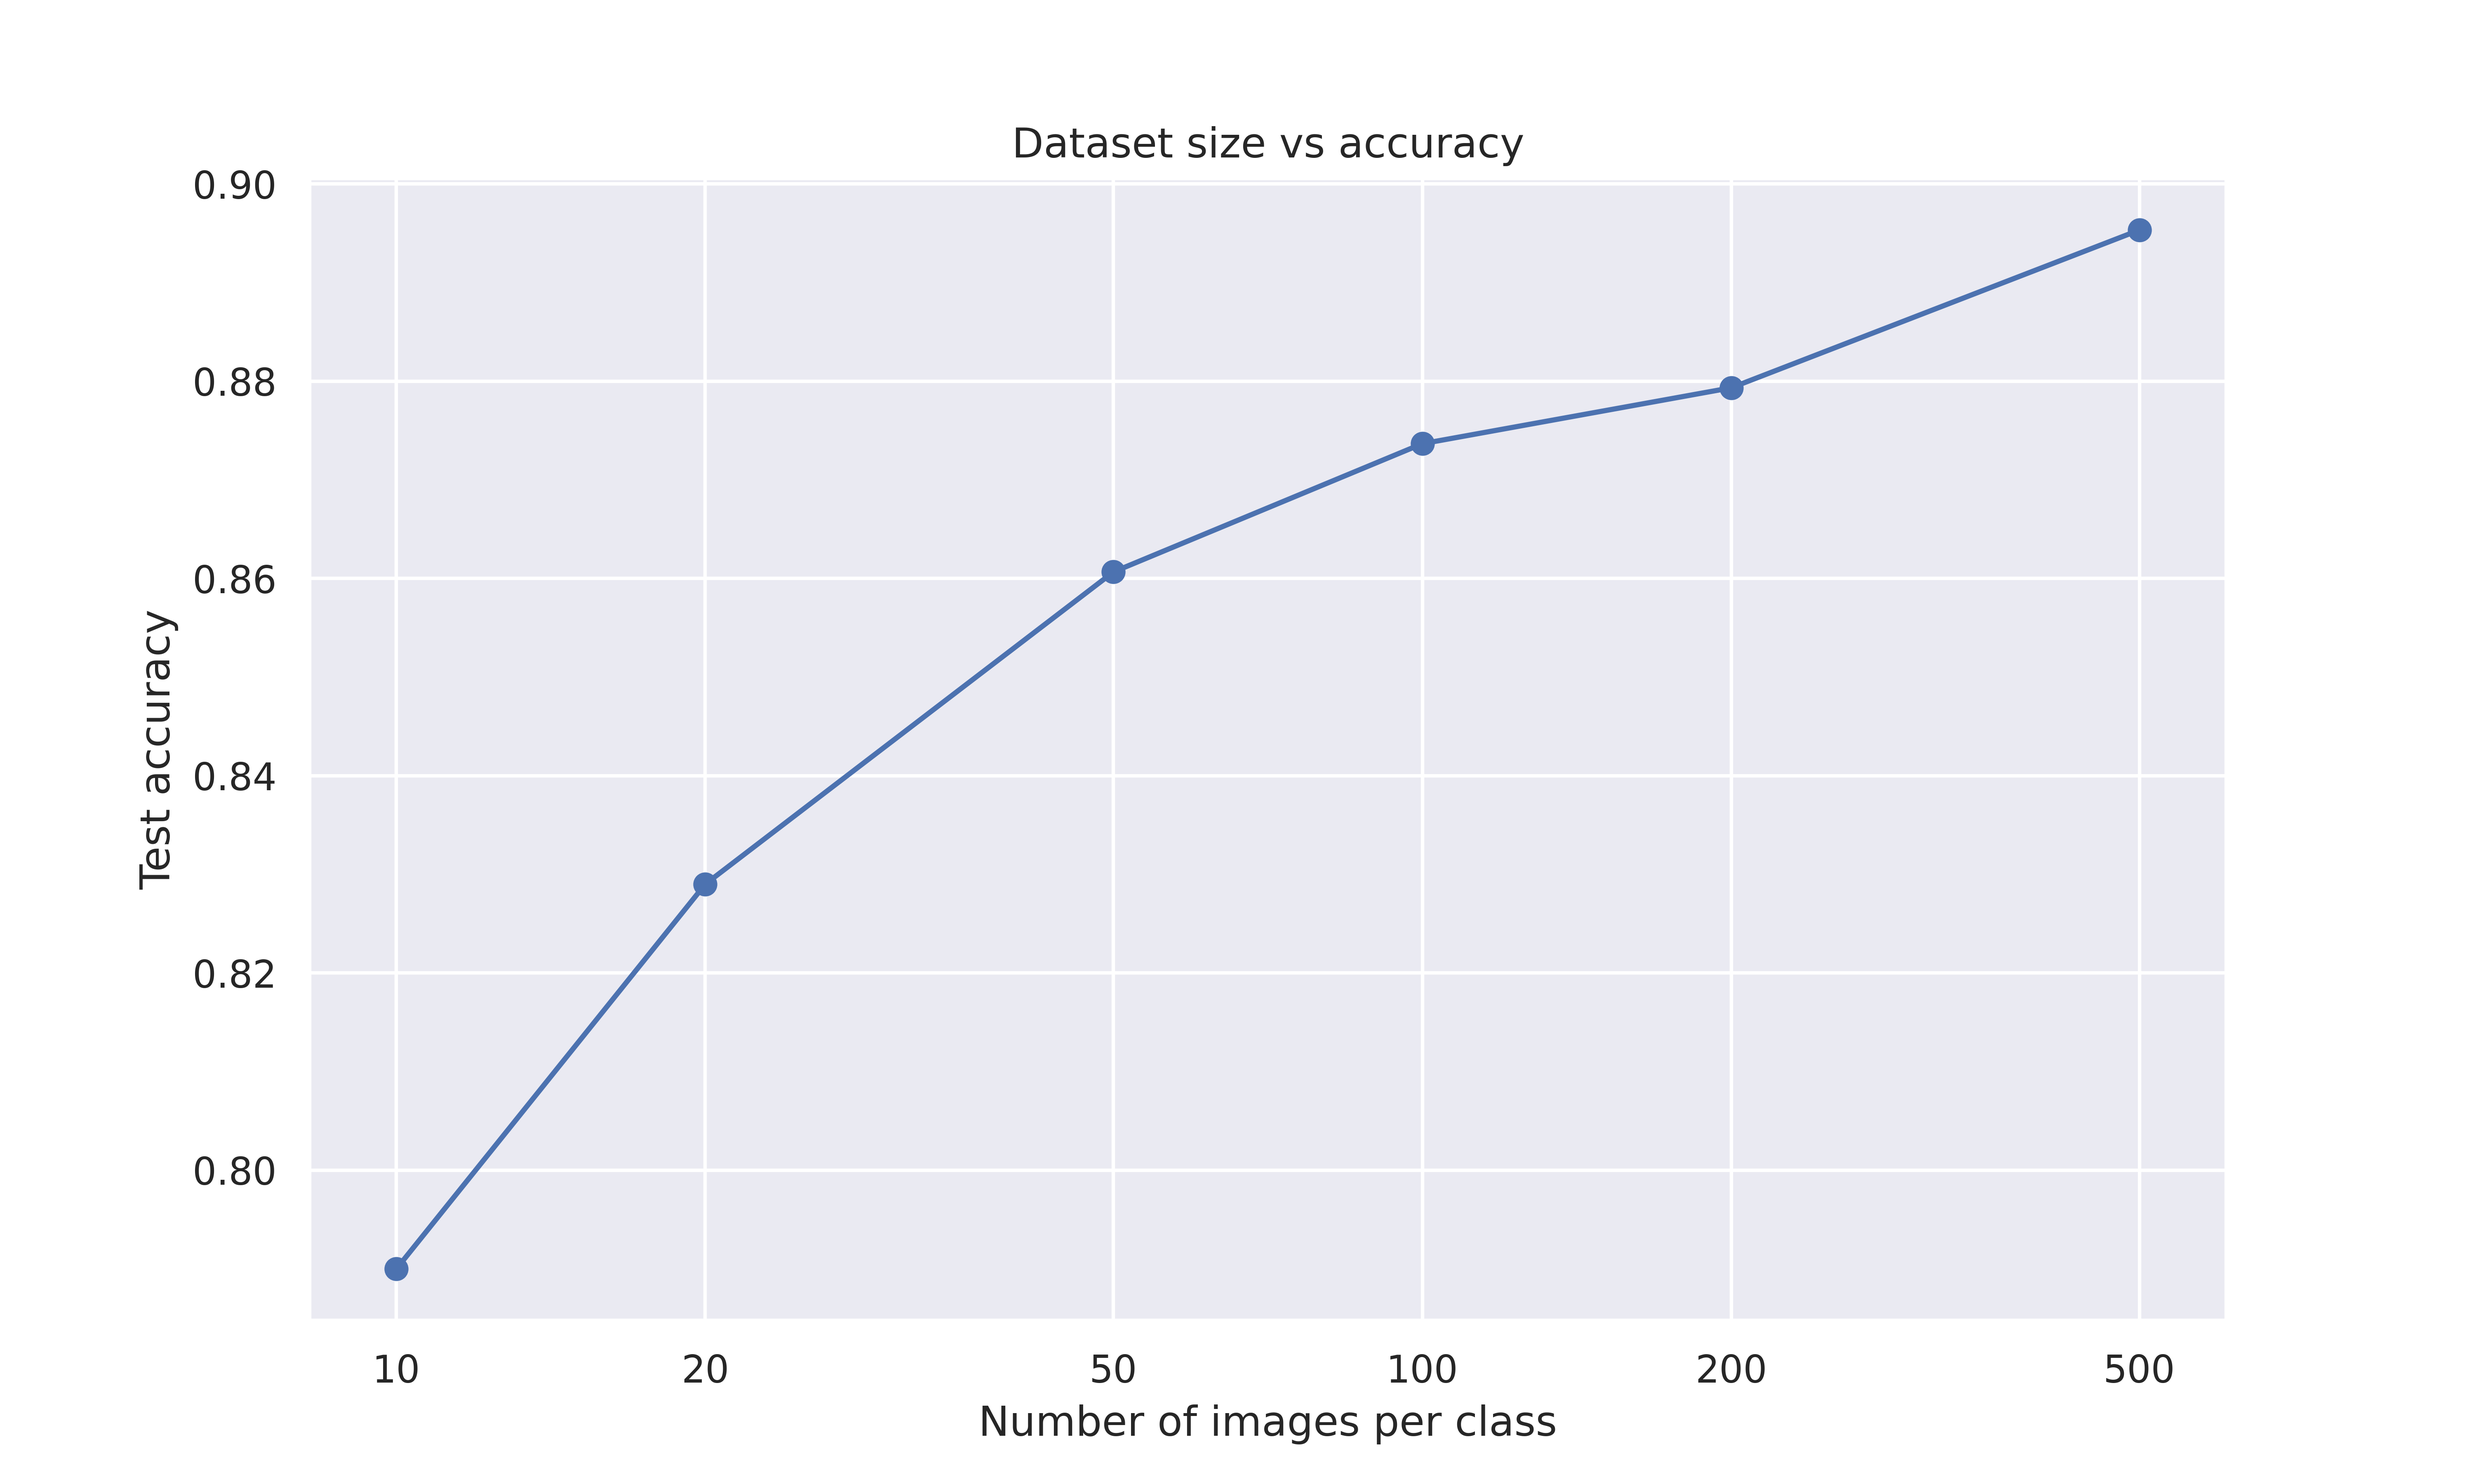
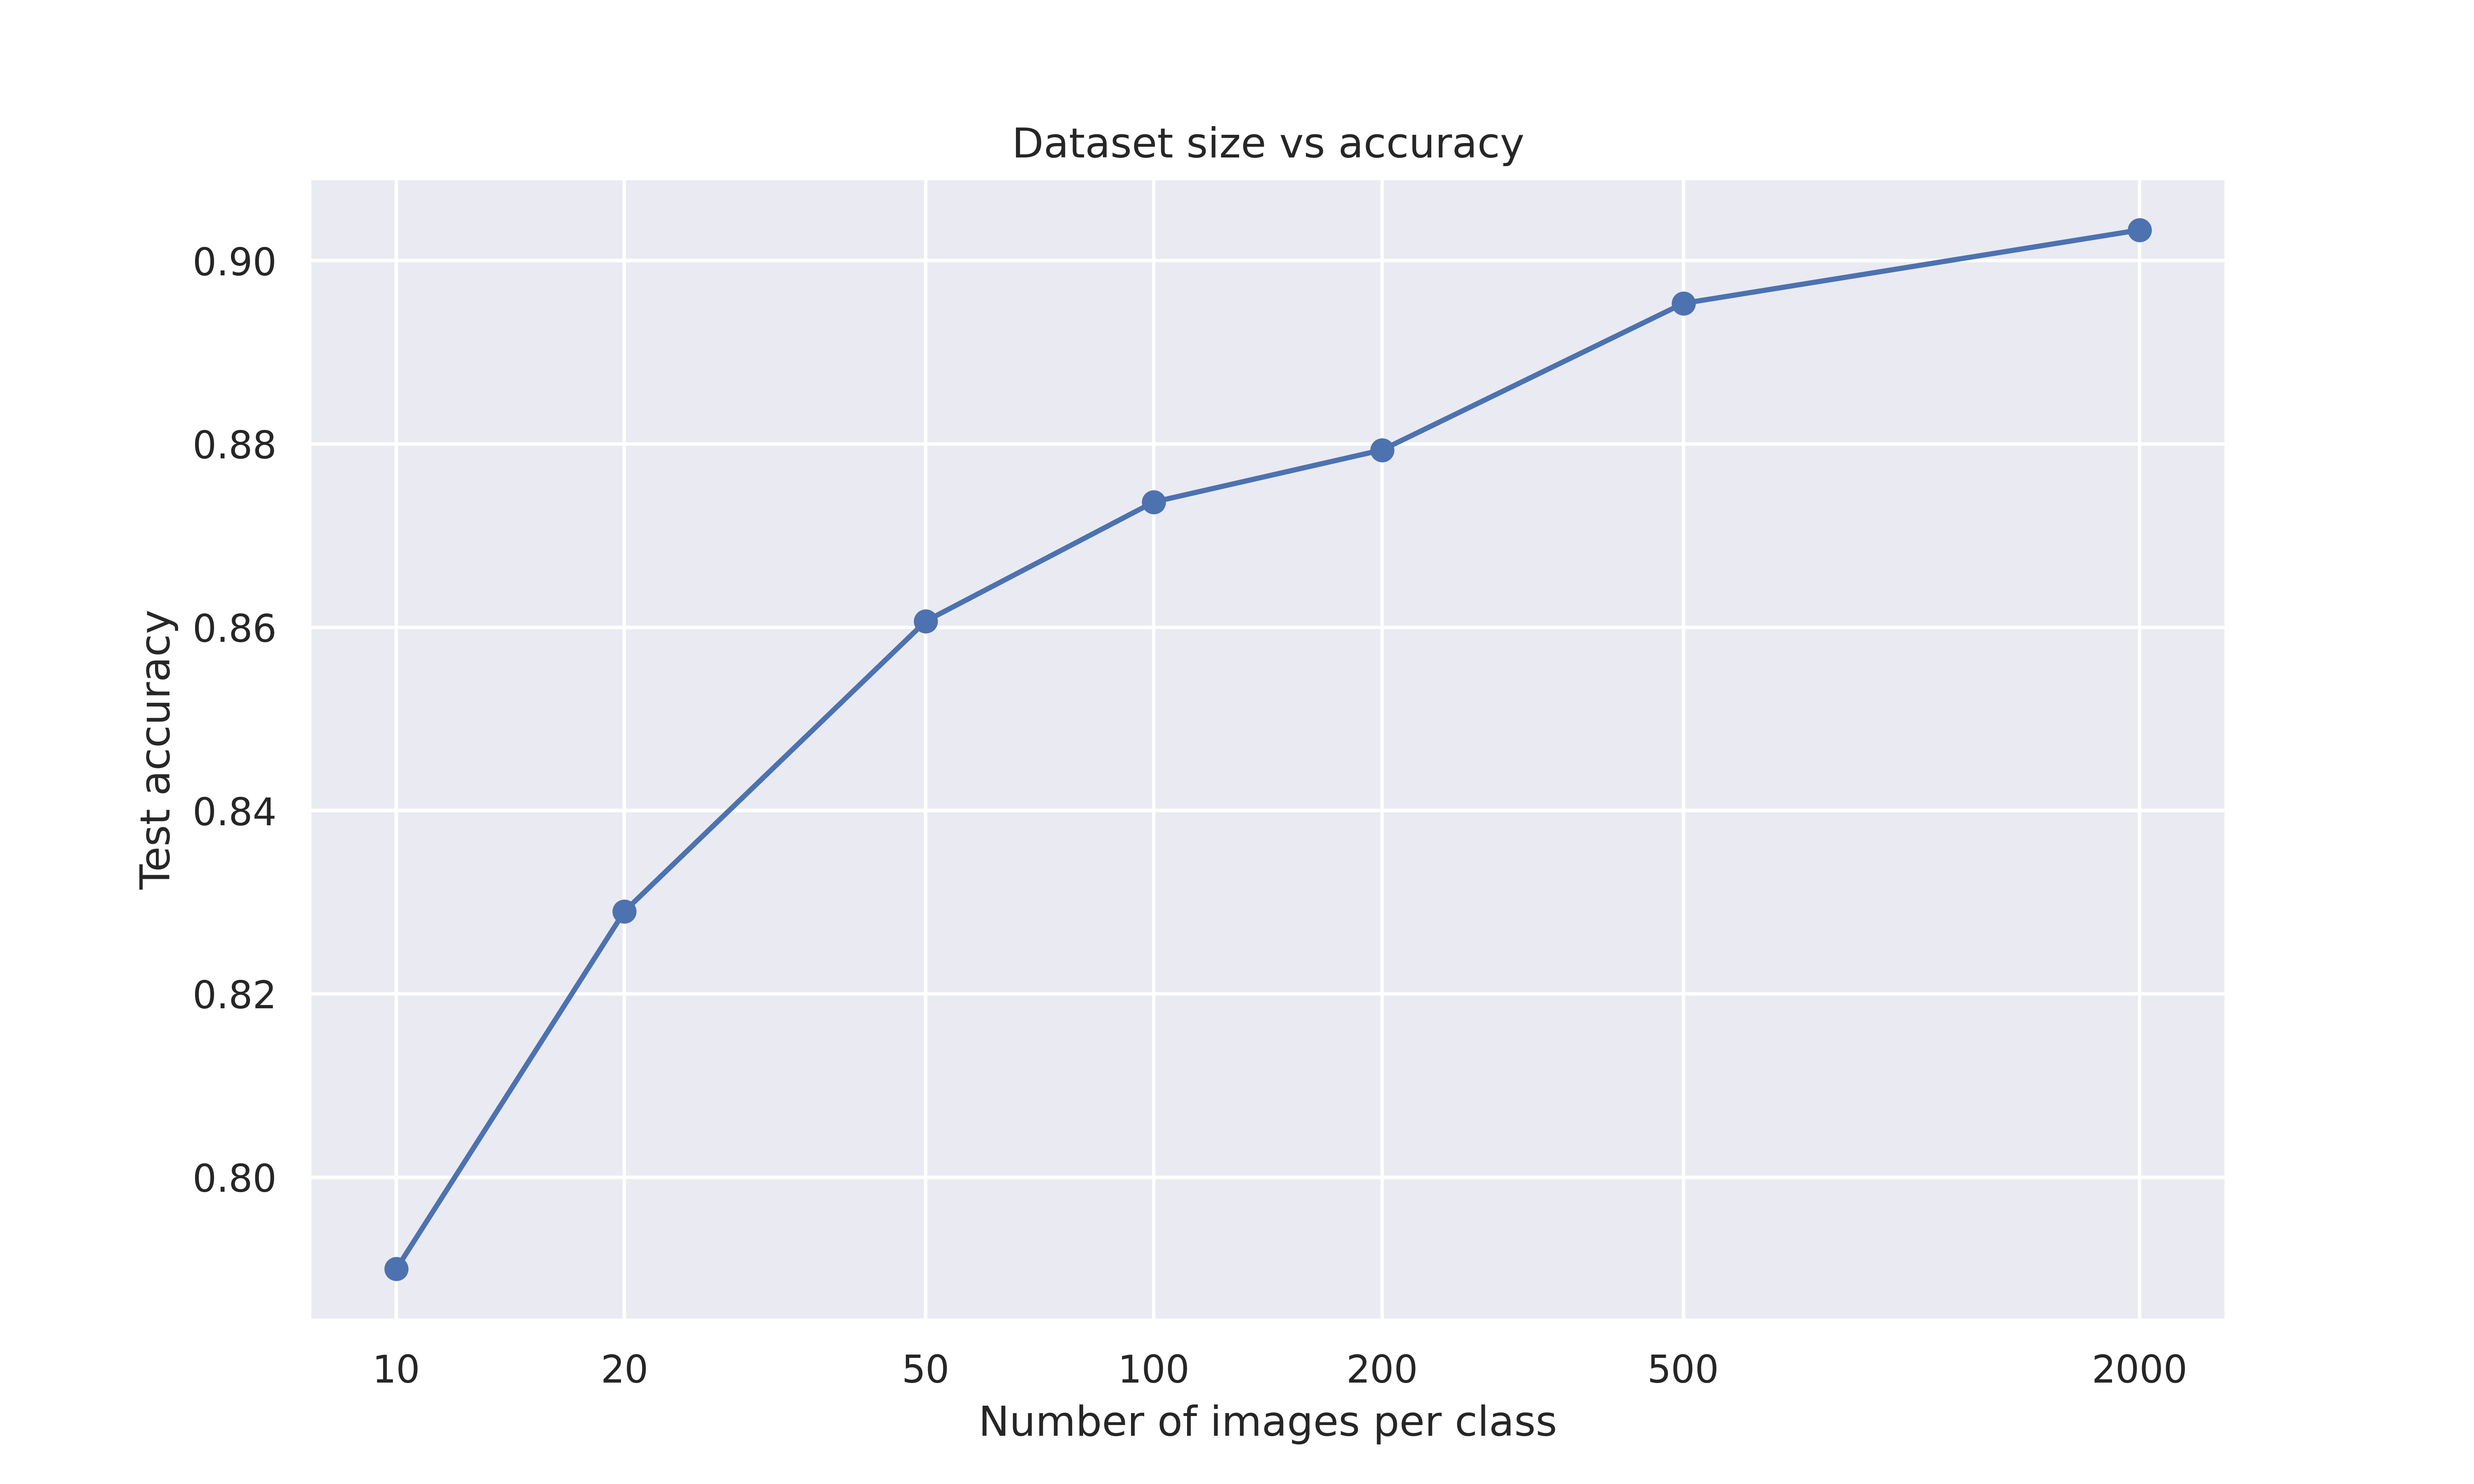
Tested on more datasamples

diff --git a/simclr.py b/simclr.py
@@ -185,7 +185,7 @@ def train_logreg(batch_size, train_feats_data, test_feats_data, model_suffix, ma
     test_loader = data.DataLoader(test_feats_data, batch_size=batch_size, shuffle=False, 
                                   drop_last=False, pin_memory=True, num_workers=0)
 
-    pretrained_filename = os.path.join(CHECKPOINT_PATH, f"LogisticRegression_{model_suffix}_2.ckpt")
+    pretrained_filename = os.path.join(CHECKPOINT_PATH, f"LogisticRegression.ckpt")
     if os.path.isfile(pretrained_filename):
         print(f"Found pretrained model at {pretrained_filename}, loading...")
         model = LogisticRegression.load_from_checkpoint(pretrained_filename)
@@ -212,7 +212,7 @@ def get_smaller_dataset(original_dataset, num_imgs_per_label):
 
 
 results = {}
-for num_imgs_per_label in [10, 20, 50, 100, 200, 500]:
+for num_imgs_per_label in [10, 20, 50, 100, 200, 500, 2000]:
     sub_train_set = get_smaller_dataset(train_feats_simclr, num_imgs_per_label)
     _, small_set_results = train_logreg(batch_size=64,
                                         train_feats_data=sub_train_set,
